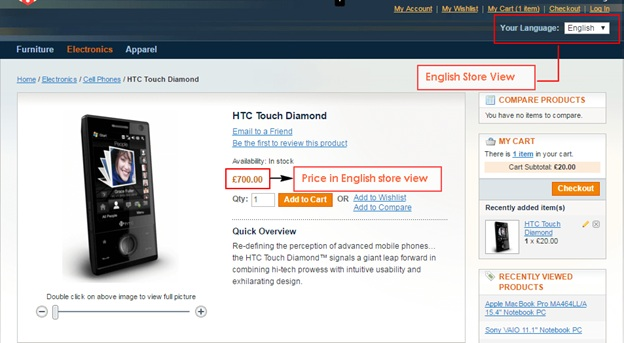
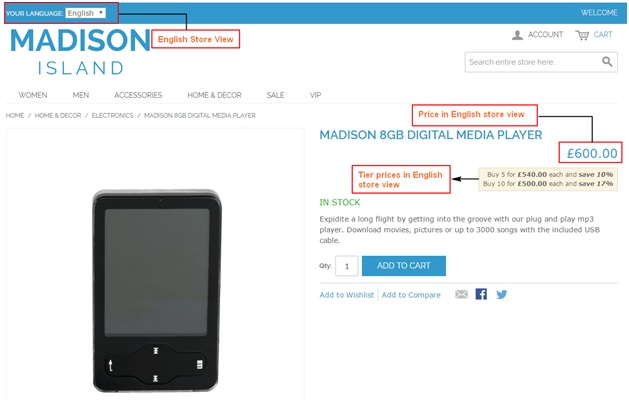
update user guide Multi store view Pricing M1

diff --git a/docs/magento_1/multi-store-pricing/user-guide.rst b/docs/magento_1/multi-store-pricing/user-guide.rst
@@ -10,13 +10,11 @@ User Guide
 Magento Multiple Store View Pricing Extension 
 ---------------------------------------------------
 
-Being an e-Commerce shop owner, have you ever found a temporary solution to set particular prices for each store view of the whole store system? Nevertheless, 
-what will you do if you have a desire for setting multiple prices of the same items in each store view of each local store but all default Magento functions 
-ucannot help you handle it?
+Being an e-Commerce shop owner, have you ever found a temporary solution to set particular prices for each store view of the whole store system? Nevertheless, what will you do if you have a desire for setting multiple 
+prices of the same items in each store view of each local store but all default Magento functions cannot help you handle it?
 
-`Multiple Store View Pricing extension <http://bsscommerce.com/magento-multistore-pricing.html>`_ is a useful tool which allows online shop owners set and display different prices for each product in each store view of the 
-corresponding store as wish. With this powerful extension, now you will not face with any trouble in setting specific prices in multi store views for same 
-products. Therefore, you can attract specific customers from different store views by price policy as you want.
+`Multiple Store View Pricing extension <http://bsscommerce.com/magento-multistore-pricing.html>`_ is a useful tool which allows online shop owners set and display different prices for each product in each store view 
+of the corresponding store as wish. With this powerful extension, now you will not face with any trouble in 
 
 How does Magento Multiple Store View Pricing Extension work?
 ------------------------------------------------------------
@@ -31,8 +29,8 @@ In box **Catalog Price Scope**, there are 3 options for admin to choose: :italic
 
 You choose :italic:`Store` to enable the module. Then you click **Save Config** and begin to customize prices of products in each store view of each store
 
-2.	Set up price for a product in the English store view: HTC Touch Diamond (Cell Phones), for example
-^^^^^^^^^^^^^^^^^^^^^^^^^^^^^^^^^^^^^^^^^^^^^^^^^^^^^^^^^^^^^^^^^^^^^^^^^^^^^^^^^^^^^^^^^^^^^^^^^^^^^^
+2.	Set up price for a product in the English store view: Madison 8GB Digital Media Player, for example
+^^^^^^^^^^^^^^^^^^^^^^^^^^^^^^^^^^^^^^^^^^^^^^^^^^^^^^^^^^^^^^^^^^^^^^^^^^^^^^^^^^^^^^^^^^^^^^^^^^^^^^^
 
 2.1		Set up base currency and default currency for English store view
 ************************************************************************
@@ -53,29 +51,35 @@ You choose :italic:`Store` to enable the module. Then you click **Save Config** 
 	Then, click to **Save config** and start to set up price for a product in the English store view
 
 
-2.2.	Set up price for HTC Touch Diamond (Cell Phones) in the English store view
-**********************************************************************************
+2.2.	Set up price for Madison 8GB Digital Media Player in the English store view
+***********************************************************************************
 
-	Go to **Manage Products** and choose HTC Touch Diamond (Cell Phones) to edit
+	Go to **Manage Products** and choose Madison 8GB Digital Media Player to edit
 
 	**Step 1**: Choose **English** store view per store (Main Store) in **Choose store view box**
 
 	.. image:: images/multi_store_pricing_2.1.jpg
 
 	Step 2: In **Price** section (on the left side column), you unmark **"Use Default Value"** and add your wanted price for the product in this 
-	English store view: :pound:`700`, for instance 
-
-	In addition, you can also set up **Special Prices** for this product 
+	English store view: :pound:`600`, for instance 
 
 	.. image:: images/multi_store_pricing_2.2.jpg
 
+	In addition, you can also set up **Group Price, Special Price and Tier Price per store view** for this product if you want.
+
+	* In Group Price For Store View: Click Add Group Price button to add new group prices. You choose each customer group in the drop-down list and set up a particular price of this product
+
+	* In Special Price: Set up a special price of this product in English store view
+
+	* In Tier price For Store View: Click Add Tier for adding new Tier prices
+
 	Finally, you save configuration and see the changes from the frontend page 
 
-	**Price of HTC Touch Diamond (Cell Phones) in the English store view from the category page:** 
+	**Prices of Madison 8GB Digital Media Player in the English store view from the product page:** 
 
 	.. image:: images/multi_store_pricing_2.3.jpg
 
-3. Set up price for a product in the French store view: HTC Touch Diamond (Cell Phones), for example
+3. Set up price for a product in the French store view: Madison 8GB Digital Media Player, for example
 ^^^^^^^^^^^^^^^^^^^^^^^^^^^^^^^^^^^^^^^^^^^^^^^^^^^^^^^^^^^^^^^^^^^^^^^^^^^^^^^^^^^^^^^^^^^^^^^^^^^^^
 
 3.1. Set up base currency and default currency for French store view
@@ -92,33 +96,35 @@ You choose :italic:`Store` to enable the module. Then you click **Save Config** 
 	In **Default Display Currency:** you can choose Euro or any other currency because this one is only displayed in the product or category 
 	page, not used in the checkout. 
 
-	In **Allowed Currencies: Choose Euro** 
+	In **Allowed Currencies:** Choose **Euro** 
 	
 	Then, click to **Save config** and start to set up price for a product in the French store view
 
 
-3.2.	Set up price for HTC Touch Diamond (Cell Phones) in the French store view
-*********************************************************************************
+3.2.	Set up price for Madison 8GB Digital Media Player in the French store view
+**********************************************************************************
 
-	Go to Manage Products and choose HTC Touch Diamond (Cell Phones) to edit
+	Go to **Manage Products** and choose Madison 8GB Digital Media Player to edit
    
 	**Step 1**: Choose **French** store view per store (Main Store) in **Choose store view box**
 
 	.. image:: images/multi_store_pricing_3.1.jpg
 
 	**Step 2**: In **Price** section (on the left side column), you unmark **"Use Default Value"** and add your wanted price for the product in this 
-	French store view: :euro:`1000`, for instance 
-
+	French store view: :euro:`800`, for instance 
+	
+	For Special prices, Group prices for Store View and Tier Prices For Store View, you do similarly to that in English store view as mentioned before.
+	
 	Finally you save configuration in go to the frontend to see the changes:
 
-	**Price of HTC Touch Diamond (Cell Phones) in the French store view from the product page:** 
+	**Prices of Madison 8GB Digital Media Player in the French store view from the product page:** 
 
 	.. image:: images/multi_store_pricing_3.2.jpg
 
 4. Conclusion
 ^^^^^^^^^^^^^
 
-After all above settings, you can see differences in price of HTC Touch Diamond (Cell Phones) between English and French store view.
+After all above settings, you can see differences in prices of Madison 8GB Digital Media Player between English and French store view.
 
 
 .. raw:: html
